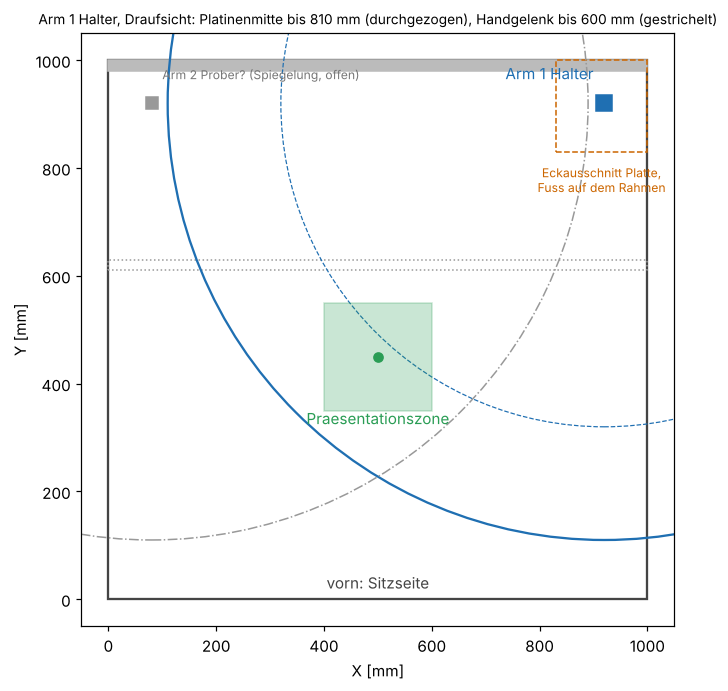
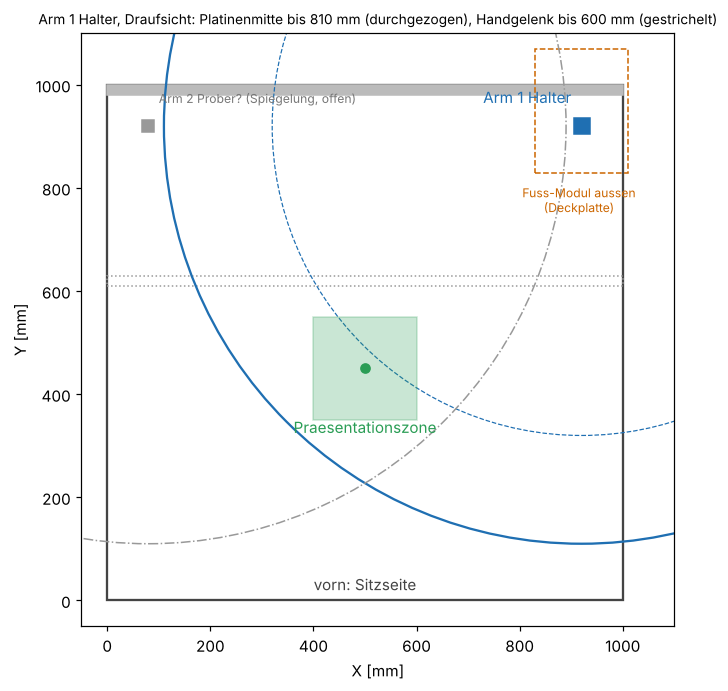
Doku auf Stand Tisch V1: README, SAFETY, ADR 0001-0004 als abgeloest markiert, Nachtrag 0006, Plan, offene Fragen, Status Tisch

diff --git a/cad/analysis/arm_holder_sizing.py b/cad/analysis/arm_holder_sizing.py
@@ -149,7 +149,7 @@ try:
     ax.add_patch(Rectangle((0, 0), 1000, 1000, fill=False, lw=1.5, ec="#444"))
     ax.add_patch(Rectangle((0, 980), 1000, 20, color="#bbb"))
     ax.add_patch(Rectangle((0, 610), 1000, 20, fill=False, ls=":", ec="#999"))
-    ax.add_patch(Rectangle((830, 830), 170, 170, fill=False, ls="--", ec="#c60"))
+    ax.add_patch(Rectangle((830, 830), 180, 240, fill=False, ls="--", ec="#c60"))   # Deckplatte Fuss-Modul (ADR 0007 Nachtrag)
     ax.add_patch(Circle((BASE_X, BASE_Y), reach + TOOL_REACH, fill=False, ec="#1f6fb2", lw=1.5))
     ax.add_patch(Circle((BASE_X, BASE_Y), reach, fill=False, ec="#1f6fb2", ls="--", lw=0.8))
     ax.add_patch(Circle((1000 - BASE_X, BASE_Y), reach + TOOL_REACH, fill=False, ec="#999", lw=1, ls="-."))
@@ -160,9 +160,9 @@ try:
     ax.text(BASE_X - 20, BASE_Y + 45, "Arm 1 Halter", ha="right", color="#1f6fb2")
     ax.text(1000 - BASE_X + 20, BASE_Y + 45, "Arm 2 Prober? (Spiegelung, offen)", ha="left", color="#777", fontsize=8)
     ax.text(P0[0], P0[1] - ZONE - 25, "Praesentationszone", ha="center", color="#2a9d55")
-    ax.text(915, 805, "Eckausschnitt Platte,\nFuss auf dem Rahmen", ha="center", va="top", color="#c60", fontsize=8)
+    ax.text(915, 805, "Fuss-Modul aussen\n(Deckplatte)", ha="center", va="top", color="#c60", fontsize=8)
     ax.text(500, 20, "vorn: Sitzseite", ha="center", color="#444")
-    ax.set_xlim(-50, 1050); ax.set_ylim(-50, 1050); ax.set_aspect("equal")
+    ax.set_xlim(-50, 1100); ax.set_ylim(-50, 1100); ax.set_aspect("equal")
     ax.set_xlabel("X [mm]"); ax.set_ylabel("Y [mm]")
     ax.set_title("Arm 1 Halter, Draufsicht: Platinenmitte bis %.0f mm (durchgezogen), Handgelenk bis %.0f mm (gestrichelt)" % (reach + TOOL_REACH, reach), fontsize=9)
     img = os.path.normpath(os.path.join(here, "..", "..", "docs", "images", "arm1_arbeitsraum.png"))

diff --git a/docs/decisions/0006-tisch-1x1-verstrebung.md b/docs/decisions/0006-tisch-1x1-verstrebung.md
@@ -55,7 +55,7 @@ Der Tisch wird sitzend benutzt. Deshalb entfallen vorn der untere Querträger, d
 ## Nachtrag: Rack-Zarge und Forex-Verkleidung
 - **Rack-Zarge**: je Seite zwei waagerechte 2020-Profile (oben, unten), 350 mm lang, zwischen hinterer Rack-Schiene und Tiefenschiene, auf der Schienenachse. Die Schublade (435 mm breit) läuft daran vorbei. 4 Profile, 8 Winkel.
 - **Forex classic 5 mm in der Nut (Stand v8)**: Die Platten stecken in der 8-mm-Nut der 4040-Profile (Mittelebene, 8 mm Eingriff) und werden mit dem Alux-Einfassprofil 8-12.40 (Plattenstärke 4 bis 6 mm) geklemmt. Das Einfassprofil nennt Plexiglas, Polycarbonat und Dibond; Forex steht dort nicht, bei Alux nachfragen. Es sind vier Platten: Seiten links/rechts 936 x 150,4 mm und hinten links/rechts 225 x 150,4 mm (rechts vom Rack-Fenster ebenso). Vorn bleibt offen (Kniefreiheit). Montage: Platte vor dem letzten Profil einschieben, dann Einfassprofil eindrücken.
-- **Schriftzug** "open-ora" (Bahnschrift, 0,8 mm tief graviert, außen): einmal links, rechts und hinten (hinten auf dem linken Stück). Im Makro über `LOGO_TEXT`, `LOGO_FONTS`, `LOGO_DEPTH` einstellbar. Vorher war die Verkleidung 3 mm außen aufgesetzt (v7), das entfällt.
+- **Schriftzug** (überholt, siehe Nachtrag Version 1) "open-ora" (Bahnschrift, 0,8 mm tief graviert, außen): einmal links, rechts und hinten (hinten auf dem linken Stück). Im Makro über `LOGO_TEXT`, `LOGO_FONTS`, `LOGO_DEPTH` einstellbar. Vorher war die Verkleidung 3 mm außen aufgesetzt (v7), das entfällt.
 - Forex ist nicht leitfähig und hält keine hohen Temperaturen aus (erweicht bei ca. 70 bis 80 °C). Es ist eine Abdeckung, kein Berührschutz für Netzteile. Netzseitige Teile bleiben Sache der Elektrofachkraft, siehe SAFETY.md. Lüftung der Netzteile nach Einbau prüfen.
 - Das Makro meldet 48 Objekte ohne Kollisionen (Bild: `docs/images/frame_v8.png`). Nuttiefe von 12 mm ist geschätzt, gegen den STEP-Schnitt prüfen. Die Steifigkeitsrechnung ist nicht aktualisiert; Zargen und Platten bringen eher Steifigkeit dazu und sind dort nicht angesetzt.
 
@@ -75,3 +75,15 @@ Alux führt den Winkelverbinder 4040-45 (Art. 4040-45, 3,39 EUR netto, STEP `404
 - **Platzhalter**: Fußbauhöhe 50 mm (Mittelstellung), Auflagehöhe 12 mm und Verstellweg +-15 mm sind angenommen. Das STEP `80mm stelvoet + K13.5 M8x50 spindel.STEP` von der Produktseite liefert die echten Maße. Die Belastbarkeit nennt Alux nicht; bei ca. 80 bis 100 kg Tischgewicht und 4 Füßen sind es etwa 25 kg je Fuß, vor der Bestellung nachfragen.
 - **Alternative**: Montageplatten-Set 80 mm (Art. Feet-set 80, 34,99 EUR netto für 4 Füße, 5-mm-Stahlplatten, die seitlich in die Nut des Pfostens geschraubt werden; Füße stehen dann etwas außerhalb des Pfostens, das hilft bei der Kippsicherheit). Maße der Platten stehen nicht auf der Seite.
 - Makro: 67 Objekte, keine Kollisionen, Höhe 740 mm.
+
+## Nachtrag: Tisch Version 1 (2026-11-24)
+- **Version 1 ist final**: `cad/frame/OpenORA_Frame22.FCStd` (nicht im Repo, `.gitignore`), Bild `docs/images/open-oratischV1.png`
+  (auch auf www.open-ora.de). Grundlage ist das Makro `cad/macros/frame_4040.py` mit Eckstreben (`BRACING = "knee"`),
+  Gelenkstellfüßen, Rack-Zargen und Forex-Verkleidung.
+- **Branding statt Schriftzug**: Auf den Forex-Platten sitzt das Logo (Wortmarke mit Zeichen und Unterzeile) und open-ora.de,
+  gebaut aus `docs/branding/forex_layout.json` (gleiche Daten wie die Druckvorlagen `docs/branding/forex-*.svg`).
+  Schalter `LOGO_MODE = "druck"` (Standard) oder `"gravur"`. Die Bahnschrift-Gravur oben ist überholt.
+- **Arm 1**: Der Fuß wird als Modul von außen an X_oben_hinten, Y_oben_rechts und Pfosten_RH geschraubt (ADR 0007, Nachtrag);
+  Platte und ESD-Matte bleiben ohne Eckausschnitt, die Plattenscheibe bleibt ungestört.
+- Weiter offen: Steifigkeit mit Eckstreben, Zargen und Forex neu rechnen; Ort des Prüf-/Tastinterface; echte Maße
+  aus den STEP-Dateien (Verbinder 4040-45, Füße).

diff --git a/README.md b/README.md
@@ -1,17 +1,45 @@
 # open-ora: Offener Reparatur-Assistent
 
-Ein offener, modularer Reparaturtisch für Elektronik: Platinen werden
-von Sensoren und lokaler KI gescannt, ein Halter-Arm positioniert,
-ein Prober tastet Testpunkte ab.
+Ein offener, modularer Reparaturtisch für Elektronik: Ein Halter-Arm bringt die Platine in Position,
+ein Prober tastet Testpunkte ab, Kameras und eine lokale KI helfen bei der Fehlersuche.
+
+Webseite: [www.open-ora.de](https://www.open-ora.de)
 
 ## Status
-Frühe Konzeptphase. Siehe `docs/decisions/`.
+Konzept- und Konstruktionsphase. Alles wird parametrisch in FreeCAD 1.1 (Python-Makros) konstruiert.
+
+| Baugruppe | Stand |
+|---|---|
+| Tisch | Version 1 konstruiert (FreeCAD-Modell), Bestellung in Vorbereitung |
+| Arm 1 (Halter) | Konzept vorgeschlagen (ADR 0007), Fuß als abnehmbares Außenmodul modelliert |
+| Licht- und Sensorrahmen | in Arbeit |
+| Arm 2 (Prober) | offen |
+| Sensorik, Elektronik, KI | offen |
+
+Plan und Meilensteine: `docs/plan.md`. Entscheidungen: `docs/decisions/`. Stand je Baustelle: `docs/status/`.
 
 ## Bestandteile
-- Tisch: 500 x 600 mm, 4040-Aluprofil, ESD- und hitzefeste Arbeitsfläche
-- Sensorik und KI: Kameras, lokale Auswertung (RTX 3070)
-- Steuerung: Raspberry Pi, ESP32
-- Druckteile für Qidi Max4 (Bauvolumen 390 x 390 x 340 mm)
+- **Tisch**: 1000 x 1000 mm, Arbeitshöhe 740 mm (Oberkante ESD-Matte), Rahmen aus Alu-Nutprofil 4040,
+  18-mm-Siebdruckplatte mit ESD-Matte, Sitzplatz vorn frei, 19"-Rack (3 HE) hinten, Forex-Verkleidung mit Logo (ADR 0006)
+- **Arme**: Halter (Nutzlast bis 1 kg, SCARA mit Hubsäule) hinten rechts, Prober (Präzision) noch offen
+- **Sensorik und KI**: Kameras, Wärmebild, ToF über dem Tisch; Auswertung lokal, ohne Cloud
+- **Rechner** (ADR 0005): Desktop (RTX 3080) für Entwicklung und Training, Laptop am Tisch (RTX 3070) für die
+  Echtzeit-Erkennung, Raspberry Pi für Kameras und Bahnplanung, ESP32 für Motoren und Sensoren
+- **Druckteile** für Qidi Max4 (Bauvolumen 390 x 390 x 340 mm)
+
+## Aufbau des Repos
+| Ordner | Inhalt |
+|---|---|
+| `cad/macros/` | FreeCAD-Makros (`frame_4040.py` Tisch, `arm_holder.py` Arm 1) |
+| `cad/analysis/` | Überschlagsrechnungen (Steifigkeit Tisch, Auslegung Arm 1) |
+| `bom/` | Stücklisten und Bestelllisten |
+| `docs/` | Entscheidungen, Status, Schnittstellen, Bilder, Branding und Webseite |
+| `firmware/`, `software/` | noch leer |
+
+Die FreeCAD-Dateien (`*.FCStd`) sind nicht im Repo; sie entstehen aus den Makros.
+
+## Sicherheit
+Nachbau auf eigene Verantwortung. Arbeiten an Netzspannung nur durch eine Elektrofachkraft, siehe `SAFETY.md`.
 
 ## Lizenzen
 - Hardware/CAD: CERN-OHL-W v2

diff --git a/docs/status/tisch.md b/docs/status/tisch.md
@@ -1,13 +1,38 @@
 # Status: tisch
 
 ## Ziel
+Ein stabiler, nachbaubarer Arbeitstisch 1000 x 1000 mm in Schreibtischhöhe, an dem man sitzend arbeitet, mit Platz für
+zwei Arme, den Licht- und Sensorrahmen und ein 19"-Rack für Netz, Netzwerk und Schublade.
 
-## Aktueller Stand
+## Aktueller Stand (2026-11-24)
+- **Version 1 final**: `cad/frame/OpenORA_Frame22.FCStd` (nicht im Repo), Bild `docs/images/open-oratischV1.png`.
+- Makro `cad/macros/frame_4040.py`: 1000 x 1000 mm, Oberkante ESD-Matte 740 mm, Alux 4040, 18-mm-Siebdruckplatte mit
+  ESD-Matte, Mittelträger, Eckstreben 45° (`BRACING = "knee"`), Gelenkstellfüße 80 mm, Sitzplatz vorn frei
+  (`FRONT_RACK = False`), 19"-Rack 3 HE hinten (Schublade 87556, Blende 872215 mit powerCON IN/OUT und etherCON),
+  Rack-Zargen 2020, Forex-Verkleidung 5 mm in der Nut mit Logo (`LOGO_MODE = "druck"`).
+- Stücklisten: `bom/frame_bom.csv` (vom Makro), Bestellliste Alux `bom/alux_bestellliste.ods`/`.csv`
+  (Preise und Artikelnummern noch auszufüllen).
+- Steifigkeit: `cad/analysis/frame_stiffness.py`, Ergebnisse in ADR 0006 (mit Platte als Scheibe ca. 490 N/mm quer,
+  f1 ca. 14,6 Hz; Eckstreben, Zargen und Forex noch nicht eingerechnet).
 
 ## Entscheidungen (Verweise auf docs/decisions/)
+- `0006-tisch-1x1-verstrebung.md` (angenommen, mit Nachträgen bis Version 1)
+- `0002`, `0003`, `0004`: Rack, Einbauten, Rahmenprinzip (Maße durch 0006 ersetzt)
 
 ## Offene Fragen
+- Konflikt Arm-1-Außenmodul mit der hinteren rechten Stütze des Lichtrahmens (offene Frage 5).
+- Ort des Prüf-/Tastinterface (offene Frage 6).
+- Alux: 2020-Profil mit passender Nut, Einfassprofil 8-12.40 für Forex freigegeben, echte Artikelnummern.
+- Echte Maße aus STEP (Verbinder 4040-45, Füße) und aus den Adam-Hall-Zeichnungen.
+- Branding mit der Druckerei klären: Druck oder Gravur, sichtbarer Rand in der Nut, Dateiformat.
 
 ## Nächste Schritte
+1. Bestellliste Alux mit Preisen und Artikelnummern füllen, BOM prüfen, bestellen.
+2. Steifigkeit mit Eckstreben, Zargen und Forex neu rechnen.
+3. Makro auf den Stand von Frame22 bringen, falls dort von Hand geändert wurde.
+4. Rahmen montieren, Platte als Scheibe verschrauben (mind. 20 Senkkopfschrauben), Steifigkeit messen (100 N seitlich).
 
 ## Abhängigkeiten zu anderen Baustellen
+- **Arm 1 (Halter)**: Fuß als Außenmodul an der Ecke hinten rechts (ADR 0007, Nachtrag), ca. 6,5 kg + 1 kg Nutzlast.
+- **Sensorik/KI**: Licht- und Sensorrahmen mit vier Stützen außen am Tisch.
+- **Stromversorgung**: Netzeingang und Netzteile im Rack hinten, Schutzleiter an Rahmen und ESD-Matte (SAFETY.md).

diff --git a/docs/plan.md b/docs/plan.md
@@ -10,6 +10,8 @@ diese Datei das Soll. `_projektleitung/pm.py` vergleicht beides.
 Format für Aufgaben: `- [ ] baustelle: Text` (Baustelle = Name der Statusdatei),
 erledigt: `- [x]`. Soll-Datum im Meilenstein-Titel: `(Soll: JJJJ-MM-TT)`.
 
+Zuletzt abgeglichen: 2026-11-25.
+
 ## Ziel
 Ein offener, nachbaubarer Reparaturtisch für Elektronik (1000 × 1000 mm), auf dem ein Halter-Arm
 eine Platine in eine Präsentationszone bringt und ruhig hält, Kameras mit lokaler KI sie erkennen
@@ -23,13 +25,15 @@ und ein Prober Testpunkte antastet. Alles dokumentiert unter CERN-OHL-W / Apache
 ## Meilensteine
 
 ### M0: Projektbasis einheitlich (Soll: offen)
-- [ ] Alte Kopie `C:\dev\open-ora_al` archivieren oder löschen
-- [ ] README auf Stand 1000 × 1000 mm bringen (offene Frage 4)
+- [x] Alte Kopie `C:\dev\open-ora_al` archivieren oder löschen
+- [x] README auf Stand 1000 × 1000 mm bringen (offene Frage 4)
 - [ ] Alle Statusdateien mit Ziel und aktuellem Stand füllen
 - [ ] Soll-Daten für M1 bis M4 festlegen
 
 ### M1: Tisch steht (Soll: offen)
-- [ ] tisch: Eckausschnitt 170 × 170 mm für Arm 1 entscheiden (offene Frage 3)
+- [x] tisch: Anschluss Arm 1 klären (Außenmodul statt Eckausschnitt, ADR 0007 Nachtrag)
+- [ ] tisch: Konflikt Arm-1-Außenmodul mit hinterer rechter Stütze des Lichtrahmens lösen (offene Frage 5)
+- [ ] tisch: Ort des Prüf-/Tastinterface festlegen (offene Frage 6)
 - [ ] tisch: BOM Rahmen (`bom/frame_bom.csv`) prüfen und bestellen
 - [ ] tisch: Rahmen montieren, Platte als Scheibe verschrauben
 - [ ] tisch: Steifigkeit am fertigen Tisch messen und mit `frame_stiffness.py` vergleichen
@@ -38,7 +42,7 @@ und ein Prober Testpunkte antastet. Alles dokumentiert unter CERN-OHL-W / Apache
 - [ ] arm1-halter: Annahmen bestätigen, ADR 0007 auf "angenommen"
 - [ ] arm2-prober: Montageort und Bauart entscheiden (offene Frage 2), ADR schreiben
 - [ ] arm2-prober: Tastkraft festlegen (Schnittstelle "Tastkraft Prober")
-- [ ] sensorik-ki: Höhe und Lage des Kameraportals entscheiden (offene Frage 1)
+- [ ] sensorik-ki: Höhe und Lage des Kameraportals entscheiden (offene Frage 1), Makro `light_frame.py` ins Repo
 - [ ] sicherheit: Sicherheitskonzept für die Arme (Not-Aus, Geschwindigkeit, Quetschstellen)
 
 ### M3: Elektrik und Steuerung festgelegt (Soll: offen)

diff --git a/SAFETY.md b/SAFETY.md
@@ -18,8 +18,9 @@ und lässt den Netzteil des Aufbaus von einer Fachkraft anschließen und prüfen
 
 ## Grundregeln für den Aufbau
 
-- **Trennung**: Netzspannung nur auf der Rückseite (feste Anschlüsse), nie an der vorderen Schnittstellenplatte.
-  Die Vorderseite führt ausschließlich Kleinspannung (SELV).
+- **Trennung**: Netzspannung nur auf der Rückseite (feste Anschlüsse im Rack hinten), nie an der Schnittstelle,
+  an der gearbeitet wird. Das Prüf- und Tastinterface führt ausschließlich Kleinspannung (SELV); sein Ort ist noch offen
+  (seit ADR 0006 ist vorn der Sitzplatz, das vordere Rack entfällt).
 - **Schutzleiter**: Alle berührbaren leitenden Teile liegen auf PE. Die ESD-Matte wird über einen
   1-MΩ-Widerstand (ESD-gerecht) mit dem Erdungspunkt verbunden.
 - **Absicherung**: Netzseitig Sicherung und Fehlerstrom-Schutzeinrichtung (RCD) laut Elektrofachkraft.
@@ -37,7 +38,7 @@ und lässt den Netzteil des Aufbaus von einer Fachkraft anschließen und prüfen
   nur dann sicher mit PE verbunden, wenn die Kontaktstellen blank sind oder Zahnscheiben verwendet werden.
   Durchgang nach dem Einbau messen.
 - **Steckverbinder nach Bemessungsdaten einsetzen.** XLR-Einbauteile der Neutrik D-Serie sind laut Datenblatt
-  für Spannungen unter 50 V ausgelegt, sie sind nur für die Kleinspannungsseite (vorn) vorgesehen.
+  für Spannungen unter 50 V ausgelegt, sie sind nur für die Kleinspannungsseite (Prüfinterface) vorgesehen.
   Netzspannung führen ausschließlich dafür freigegebene Steckverbinder (z. B. powerCON-Familie), hinten.
 - **Verwechslung ausschließen**: Netzsteckverbinder und Kleinspannungssteckverbinder nie vom selben Typ,
   nie auf derselben Platte.

diff --git a/docs/offene-fragen.md b/docs/offene-fragen.md
@@ -3,6 +3,8 @@
 | Nr. | Frage | betrifft | Status |
 |---|---|---|---|
 | 1 | Höhe und Lage des Kameraportals: Die Säule von Arm 1 ragt ca. 400 mm über die Matte | Sensorik, Arm 1 | offen |
-| 2 | Montageort und Bauart des Probers (gespiegelt hinten links?), Aufteilung der Präsentationszone | Arm 2, Arm 1 | offen |
-| 3 | Eckausschnitt 170 x 170 mm hinten rechts in Platte und Matte (Arm-1-Fuß auf dem Rahmen), Einfluss auf die Plattenscheibe | Tisch, Arm 1 | offen |
-| 4 | README nennt noch 500 x 600 mm, Stand ist 1000 x 1000 (0006) | Doku | offen |
+| 2 | Montageort und Bauart des Probers (gespiegelt als Außenmodul hinten links?), Aufteilung der Präsentationszone | Arm 2, Arm 1 | offen |
+| 3 | Eckausschnitt 170 x 170 mm hinten rechts in Platte und Matte | Tisch, Arm 1 | erledigt (Außenmodul, ADR 0007 Nachtrag) |
+| 4 | README nennt noch 500 x 600 mm, Stand ist 1000 x 1000 (0006) | Doku | erledigt (2026-11-25) |
+| 5 | Hintere rechte Stütze des Lichtrahmens (x 1000..1040, y 920..960) sitzt an der Stelle der rechten Wange des Arm-1-Fußes: Stütze versetzen oder gemeinsames Eckmodul | Tisch, Arm 1, Sensorik | offen |
+| 6 | Ort des Prüf-/Tastinterface (vorn entfällt das Rack): seitliches Rack außerhalb der Knieräume oder auf der Platte | Tisch, Elektronik, Sicherheit | offen |

diff --git a/docs/decisions/0004-rahmenaufbau.md b/docs/decisions/0004-rahmenaufbau.md
@@ -1,6 +1,11 @@
 # 0004: Rahmenaufbau, Pfosten als Füße
 
-Status: angenommen
+Status: angenommen als Bauprinzip (obere Ebene über die volle Breite, Pfosten als Füße), **Maße ersetzt durch
+`0006-tisch-1x1-verstrebung.md`**.
+
+> **Stand heute (ADR 0006, Tisch Version 1):** 1000 x 1000 mm, Oberkante ESD-Matte 740 mm, Pfosten 630 mm mit
+> eingeschraubten Gelenkstellfüßen, Zuschnitte 4040: 2 x 1000, 10 x 920, 4 x 630, 6 x 283,6 mm (siehe `bom/frame_bom.csv`).
+> Die Maße unten gehören zum früheren Tisch 600 x 500 mm.
 
 ## Entscheidung
 - **Obere Ebene**: Die langen X-Träger (600 mm) liegen vorn und hinten über die komplette Breite,

diff --git a/docs/decisions/0002-19zoll-rack.md b/docs/decisions/0002-19zoll-rack.md
@@ -1,6 +1,10 @@
 # 0002: 19-Zoll-Rack auf den langen Seiten
 
-Status: angenommen
+Status: angenommen, **teilweise ersetzt durch `0006-tisch-1x1-verstrebung.md`**.
+
+> **Stand heute (ADR 0006):** Der Tisch ist 1000 x 1000 mm groß und 740 mm hoch. Das 19"-Rack (3 HE) gibt es nur
+> noch **hinten**; vorn ist der Sitzplatz frei (`FRONT_RACK = False`). Maße und Aufteilung unten gelten für den
+> früheren Tisch 600 x 500 mm und sind nur noch als Herleitung der Rack-Schienen (2020, Nutabstand 465,1 mm) gültig.
 
 ## Kontext
 Der Tisch (600 x 500 x 220 mm, Alux 4040) bekommt vorn und hinten Schnittstellen:

diff --git a/docs/decisions/0003-komponenten-neutrik-adamhall.md b/docs/decisions/0003-komponenten-neutrik-adamhall.md
@@ -1,6 +1,8 @@
 # 0003: Rack-Einbauten von Adam Hall und Neutrik
 
-Status: angenommen (Teilenummern und Maße vor Bestellung gegen Datenblatt/2D-Zeichnung prüfen)
+Status: angenommen (Teilenummern und Maße vor Bestellung gegen Datenblatt/2D-Zeichnung prüfen).
+**Vorn entfällt seit `0006-tisch-1x1-verstrebung.md`** (Sitzplatz vorn frei): Es gibt nur noch die hintere D12-Blende
+und die Schublade hinten. Die vordere Blende unten ist überholt; wo das Prüf-/Tastinterface hinkommt, ist offen.
 
 ## Entscheidung
 

diff --git a/docs/decisions/0001-architektur.md b/docs/decisions/0001-architektur.md
@@ -1,6 +1,7 @@
 # 0001: Systemarchitektur
 
-Status: angenommen
+Status: angenommen. Rechnerrollen ergänzt durch `0005-rechnerrollen.md` (KI-Training und Sprachmodell auf dem Desktop,
+der Laptop nur für die Echtzeit-Erkennung am Tisch).
 
 - Laptop (RTX 3070): Bildverarbeitung und KI
 - Raspberry Pi: Kameras, Bahnplanung, Brücke zum Laptop
